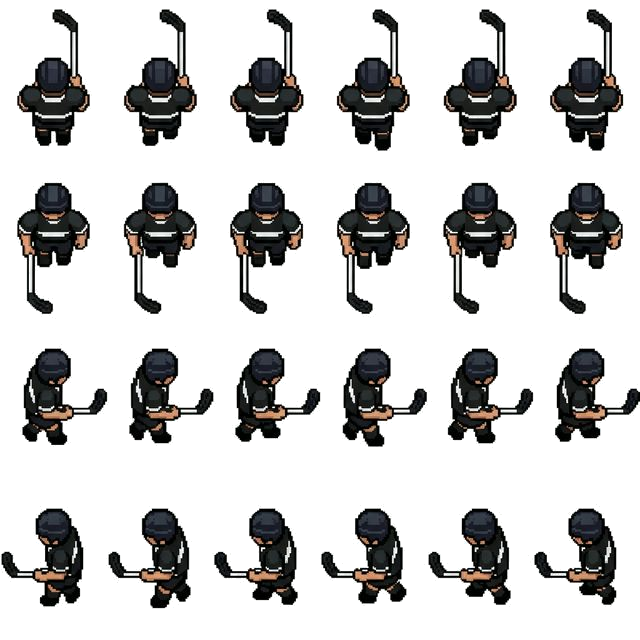
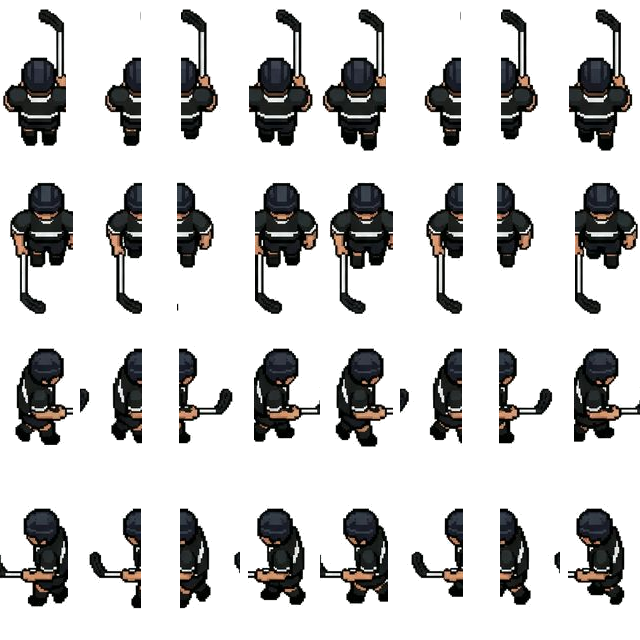
fix: re-center black char frames, add stick wind-up, smooth aim lerp
- Re-center char_black.png frames: x-centers were 18-58px (looked like
  scrolling); now 35-47px matching white char's natural walk sway
- Aim lerp (_lerpAim): smoothed aim caps at 45°/step so direction
  changes rotate the stick smoothly instead of teleporting — prevents
  ball drops on sharp turns. Used for sprite rotation and stick physics.
  Actual aim still used for shot direction.
- Charge wind-up: stick rotates backward (up to 80% toward opposite-aim)
  as slap charge builds, giving a visual wind-up before release.

diff --git a/src/scenes/GameScene.ts b/src/scenes/GameScene.ts
@@ -63,6 +63,11 @@ export class GameScene extends Phaser.Scene {
   protected _hostAim = { x: 1, y: 0 };
   protected _clientAim = { x: -1, y: 0 };
 
+  // Smoothed aim used for stick direction/rendering — capped at 45°/step
+  // to prevent instant 180° flips that drop the ball.
+  protected _hostAimSmooth = { x: 1, y: 0 };
+  protected _clientAimSmooth = { x: -1, y: 0 };
+
   // One-touch tracking
   private _lastTouch: LastTouch = { playerId: "", timeMs: 0 };
   protected _elapsedMs = 0; // total game time in ms
@@ -146,6 +151,8 @@ export class GameScene extends Phaser.Scene {
     this._lastTouch = { playerId: "", timeMs: 0 };
     this._hostAim = { x: 1, y: 0 };
     this._clientAim = { x: -1, y: 0 };
+    this._hostAimSmooth = { x: 1, y: 0 };
+    this._clientAimSmooth = { x: -1, y: 0 };
 
     // Static field
     this._field = this.add.graphics();
@@ -337,6 +344,10 @@ export class GameScene extends Phaser.Scene {
       this._clientAim = { x: clientInput.moveX, y: clientInput.moveY };
     }
 
+    // Advance smoothed aim — capped at 45°/step to prevent instant flips dropping the ball
+    this._hostAimSmooth = this._lerpAim(this._hostAimSmooth, this._hostAim);
+    this._clientAimSmooth = this._lerpAim(this._clientAimSmooth, this._clientAim);
+
     stepPlayer(this.host, hostInput, dt, elapsedMs);
     stepPlayer(this.client, clientInput, dt, elapsedMs);
 
@@ -355,8 +366,9 @@ export class GameScene extends Phaser.Scene {
     updateShootCharge(this._hostShoot, hostInput.slap, elapsedMs);
     updateShootCharge(this._clientShoot, clientInput.slap, elapsedMs);
 
-    const hostStick = this._stickDir(this.host, this._hostAim);
-    const clientStick = this._stickDir(this.client, this._clientAim);
+    // Use smoothed aim for stick direction so stick doesn't teleport on direction change
+    const hostStick = this._stickDir(this.host, this._hostAimSmooth);
+    const clientStick = this._stickDir(this.client, this._clientAimSmooth);
     resolvePlayerBallCollision(this.host, this.ball);
     resolvePlayerBallCollision(this.client, this.ball);
     resolveStickTipCollision(this.host, this.ball, hostStick.x, hostStick.y);
@@ -390,7 +402,7 @@ export class GameScene extends Phaser.Scene {
   /** Returns true if ball is near the stick tip or player body. */
   private _ballInRange(who: "host" | "client"): boolean {
     const player = who === "host" ? this.host : this.client;
-    const aim = who === "host" ? this._hostAim : this._clientAim;
+    const aim = who === "host" ? this._hostAimSmooth : this._clientAimSmooth;
     const sDir = this._stickDir(player, aim);
     const tipX = player.x + sDir.x * STICK_REACH;
     const tipY = player.y + sDir.y * STICK_REACH;
@@ -545,7 +557,7 @@ export class GameScene extends Phaser.Scene {
     this._ballShadow.setPosition(this.ball.x, this.ball.y).setScale(shadowScale).setAlpha(shadowAlpha);
 
     this._hostSprite.setPosition(this.host.x, this.host.y);
-    this._hostSprite.setRotation(Math.atan2(this._hostAim.y, this._hostAim.x) + Math.PI / 2);
+    this._hostSprite.setRotation(Math.atan2(this._hostAimSmooth.y, this._hostAimSmooth.x) + Math.PI / 2);
     if (Math.abs(this.host.vx) > 10 || Math.abs(this.host.vy) > 10) {
       this._hostSprite.anims.play("walk_host", true);
     } else {
@@ -554,7 +566,7 @@ export class GameScene extends Phaser.Scene {
     }
 
     this._clientSprite.setPosition(this.client.x, this.client.y);
-    this._clientSprite.setRotation(Math.atan2(this._clientAim.y, this._clientAim.x) + Math.PI / 2);
+    this._clientSprite.setRotation(Math.atan2(this._clientAimSmooth.y, this._clientAimSmooth.x) + Math.PI / 2);
     if (Math.abs(this.client.vx) > 10 || Math.abs(this.client.vy) > 10) {
       this._clientSprite.anims.play("walk_client", true);
     } else {
@@ -611,47 +623,72 @@ export class GameScene extends Phaser.Scene {
       aim: { x: number; y: number },
       sprite: Phaser.GameObjects.Sprite,
       animMs: number,
-      maxAnimMs: number
+      maxAnimMs: number,
+      chargeMs: number
     ): void => {
       const aimLen = Math.hypot(aim.x, aim.y);
       if (aimLen === 0) return;
       const aNx = aim.x / aimLen;
       const aNy = aim.y / aimLen;
 
-      // Perpendicular direction (toward ball side)
       const stickDir = this._stickDir(player, aim);
 
-      // Swing fraction: 1 = just fired (stick snaps forward), 0 = idle (perpendicular)
-      const swingFrac = animMs > 0 ? Math.sin((animMs / maxAnimMs) * (Math.PI / 2)) : 0;
+      let dirX: number;
+      let dirY: number;
 
-      // Blend stick direction from perpendicular → forward aim as swingFrac → 1
-      const dirX = stickDir.x * (1 - swingFrac) + aNx * swingFrac;
-      const dirY = stickDir.y * (1 - swingFrac) + aNy * swingFrac;
+      if (animMs > 0) {
+        // Swing animation: stick snaps to forward aim, then returns to perpendicular
+        const swingFrac = Math.sin((animMs / maxAnimMs) * (Math.PI / 2));
+        dirX = stickDir.x * (1 - swingFrac) + aNx * swingFrac;
+        dirY = stickDir.y * (1 - swingFrac) + aNy * swingFrac;
+      } else if (chargeMs > 0) {
+        // Wind-up: rotate stick backward (opposite of aim) as charge builds
+        const windupFrac = Math.min(chargeMs / SHOOT_MAX_CHARGE_MS_LOCAL, 1) * 0.8;
+        dirX = stickDir.x * (1 - windupFrac) + (-aNx) * windupFrac;
+        dirY = stickDir.y * (1 - windupFrac) + (-aNy) * windupFrac;
+      } else {
+        dirX = stickDir.x;
+        dirY = stickDir.y;
+      }
+
       const dLen = Math.hypot(dirX, dirY) || 1;
       const nx = dirX / dLen;
       const ny = dirY / dLen;
 
-      // Adjust stick positional offset to make it look like they are holding it contextually
       const baseX = player.x + nx * (PLAYER_RADIUS * 0.8);
       const baseY = player.y + ny * (PLAYER_RADIUS * 0.8);
 
       sprite.setPosition(baseX, baseY);
       sprite.setRotation(Math.atan2(ny, nx) + Math.PI / 2);
 
-      // Animate stick frame based on swing progress. Assuming 16 frames in the sheet (4x4).
       if (animMs > 0) {
-        // animMs goes from 280 down to 0. 
-        // We want the frame to progress from 0 to 15.
         const frameProgress = 1 - (animMs / maxAnimMs);
-        const frameIndex = Math.min(15, Math.floor(frameProgress * 16));
-        sprite.setFrame(frameIndex);
+        sprite.setFrame(Math.min(15, Math.floor(frameProgress * 16)));
       } else {
         sprite.setFrame(0);
       }
     };
 
-    drawStick(this.host, this._hostAim, this._hostStickSprite, this._hostShotAnimMs, 280);
-    drawStick(this.client, this._clientAim, this._clientStickSprite, this._clientShotAnimMs, 280);
+    drawStick(this.host, this._hostAimSmooth, this._hostStickSprite, this._hostShotAnimMs, 280, this._hostShoot.chargeMs);
+    drawStick(this.client, this._clientAimSmooth, this._clientStickSprite, this._clientShotAnimMs, 280, this._clientShoot.chargeMs);
+  }
+
+  /**
+   * Rotates `current` toward `target`, capped at 45° per fixed step.
+   * Using angle-space lerp so opposite directions converge correctly.
+   */
+  protected _lerpAim(
+    current: { x: number; y: number },
+    target: { x: number; y: number }
+  ): { x: number; y: number } {
+    const MAX_RAD = Math.PI / 4; // 45° per fixed step
+    const curAngle = Math.atan2(current.y, current.x);
+    const tgtAngle = Math.atan2(target.y, target.x);
+    let delta = tgtAngle - curAngle;
+    if (delta > Math.PI) delta -= 2 * Math.PI;
+    if (delta < -Math.PI) delta += 2 * Math.PI;
+    const newAngle = curAngle + Math.max(-MAX_RAD, Math.min(MAX_RAD, delta));
+    return { x: Math.cos(newAngle), y: Math.sin(newAngle) };
   }
 
   private _drawField(): void {

diff --git a/src/scenes/OnlineGameScene.ts b/src/scenes/OnlineGameScene.ts
@@ -153,6 +153,7 @@ export class OnlineGameScene extends GameScene {
       if (input.moveX !== 0 || input.moveY !== 0) {
         this._clientAim = { x: input.moveX, y: input.moveY };
       }
+      this._clientAimSmooth = this._lerpAim(this._clientAimSmooth, this._clientAim);
       stepPlayer(this.client, input, dt, elapsedMs);
 
       // Slap: check release BEFORE updating charge
@@ -164,7 +165,7 @@ export class OnlineGameScene extends GameScene {
       updateShootCharge(this._clientShoot, input.slap, elapsedMs);
 
       // Local prediction: stick tip collision + possession (host is authoritative)
-      const clientStick = this._stickDir(this.client, this._clientAim);
+      const clientStick = this._stickDir(this.client, this._clientAimSmooth);
       resolvePlayerBallCollision(this.host, this.ball);
       resolvePlayerBallCollision(this.client, this.ball);
       resolveStickTipCollision(this.client, this.ball, clientStick.x, clientStick.y);
